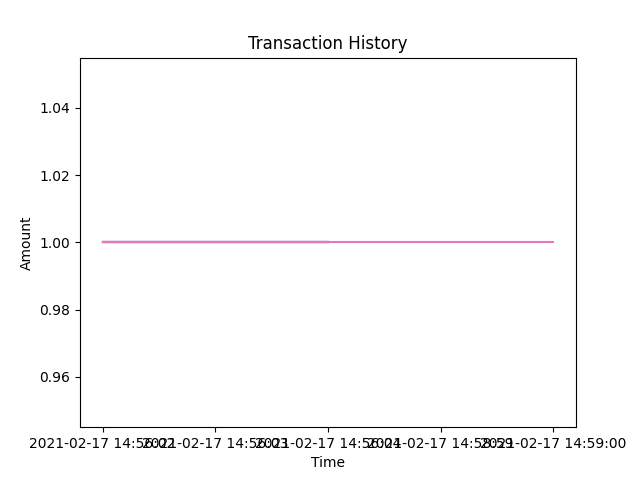
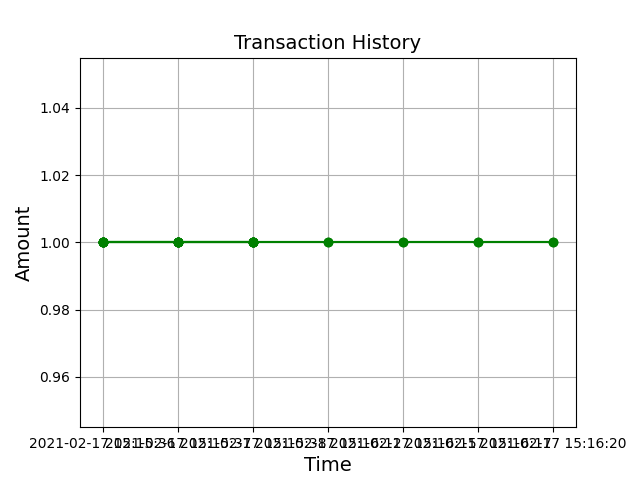
transaction graph 2.0

diff --git a/templates/tracktransaction.html b/templates/tracktransaction.html
@@ -49,7 +49,7 @@
     </tbody>
   </table>
 </div>
-<div class="search-photo">
+<div>
   <img src="\static\img\plot.png">
 </div>
 {% endif %}

diff --git a/blockchain.py b/blockchain.py
@@ -390,12 +390,11 @@ def track_transaction():
             for data in search_data:
                 time.append(data['time'])
                 amount.append(data['amount'])
-            print(time)
-            print(amount)
-            plt.plot(time, amount)
-            plt.title('Transaction History')
-            plt.xlabel('Time')
-            plt.ylabel('Amount')
+            plt.plot(time, amount, color='green', marker='o')
+            plt.title('Transaction History', fontsize=14)
+            plt.xlabel('Time', fontsize=14)
+            plt.ylabel('Amount', fontsize=14)
+            plt.grid(True)
             strFile = "static/img/plot.png"
             if os.path.isfile(strFile):
                 os.remove(strFile)  # for removing file if it exist

diff --git a/node_5001.py b/node_5001.py
@@ -390,12 +390,11 @@ def track_transaction():
             for data in search_data:
                 time.append(data['time'])
                 amount.append(data['amount'])
-            print(time)
-            print(amount)
-            plt.plot(time, amount)
-            plt.title('Transaction History')
-            plt.xlabel('Time')
-            plt.ylabel('Amount')
+            plt.plot(time, amount, color='green', marker='o')
+            plt.title('Transaction History', fontsize=14)
+            plt.xlabel('Time', fontsize=14)
+            plt.ylabel('Amount', fontsize=14)
+            plt.grid(True)
             strFile = "static/img/plot.png"
             if os.path.isfile(strFile):
                 os.remove(strFile)  # for removing file if it exist
